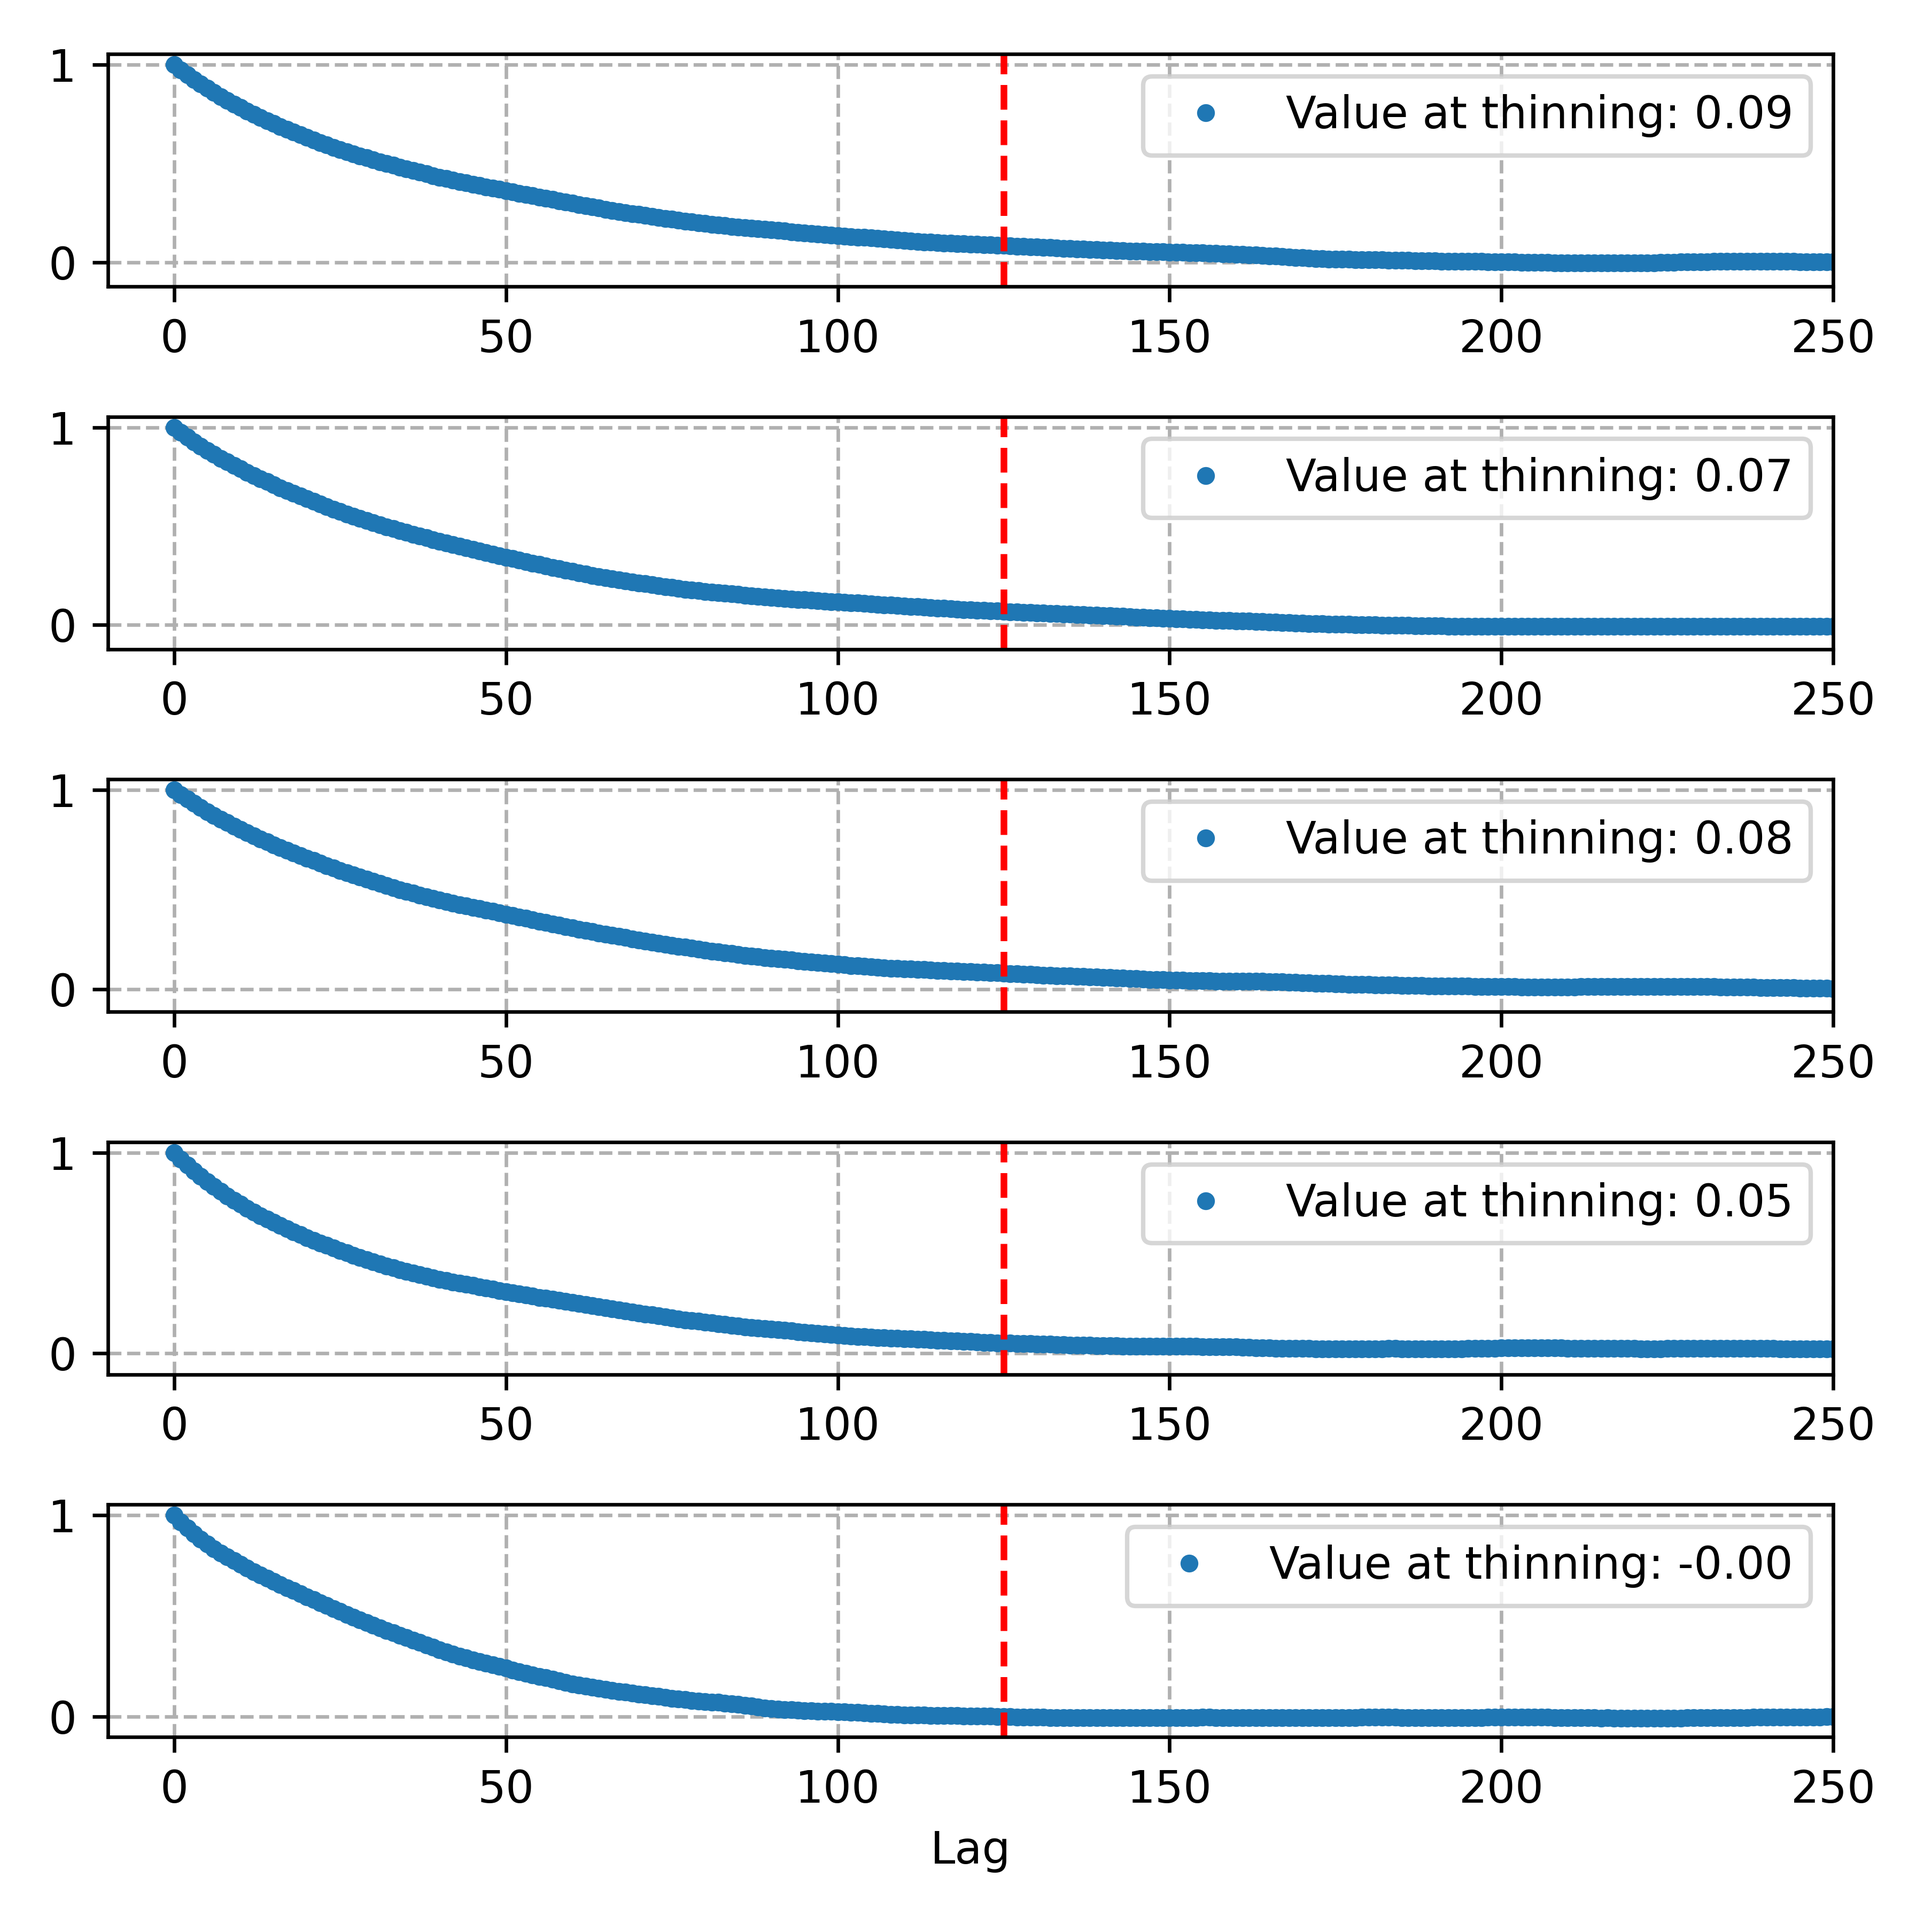
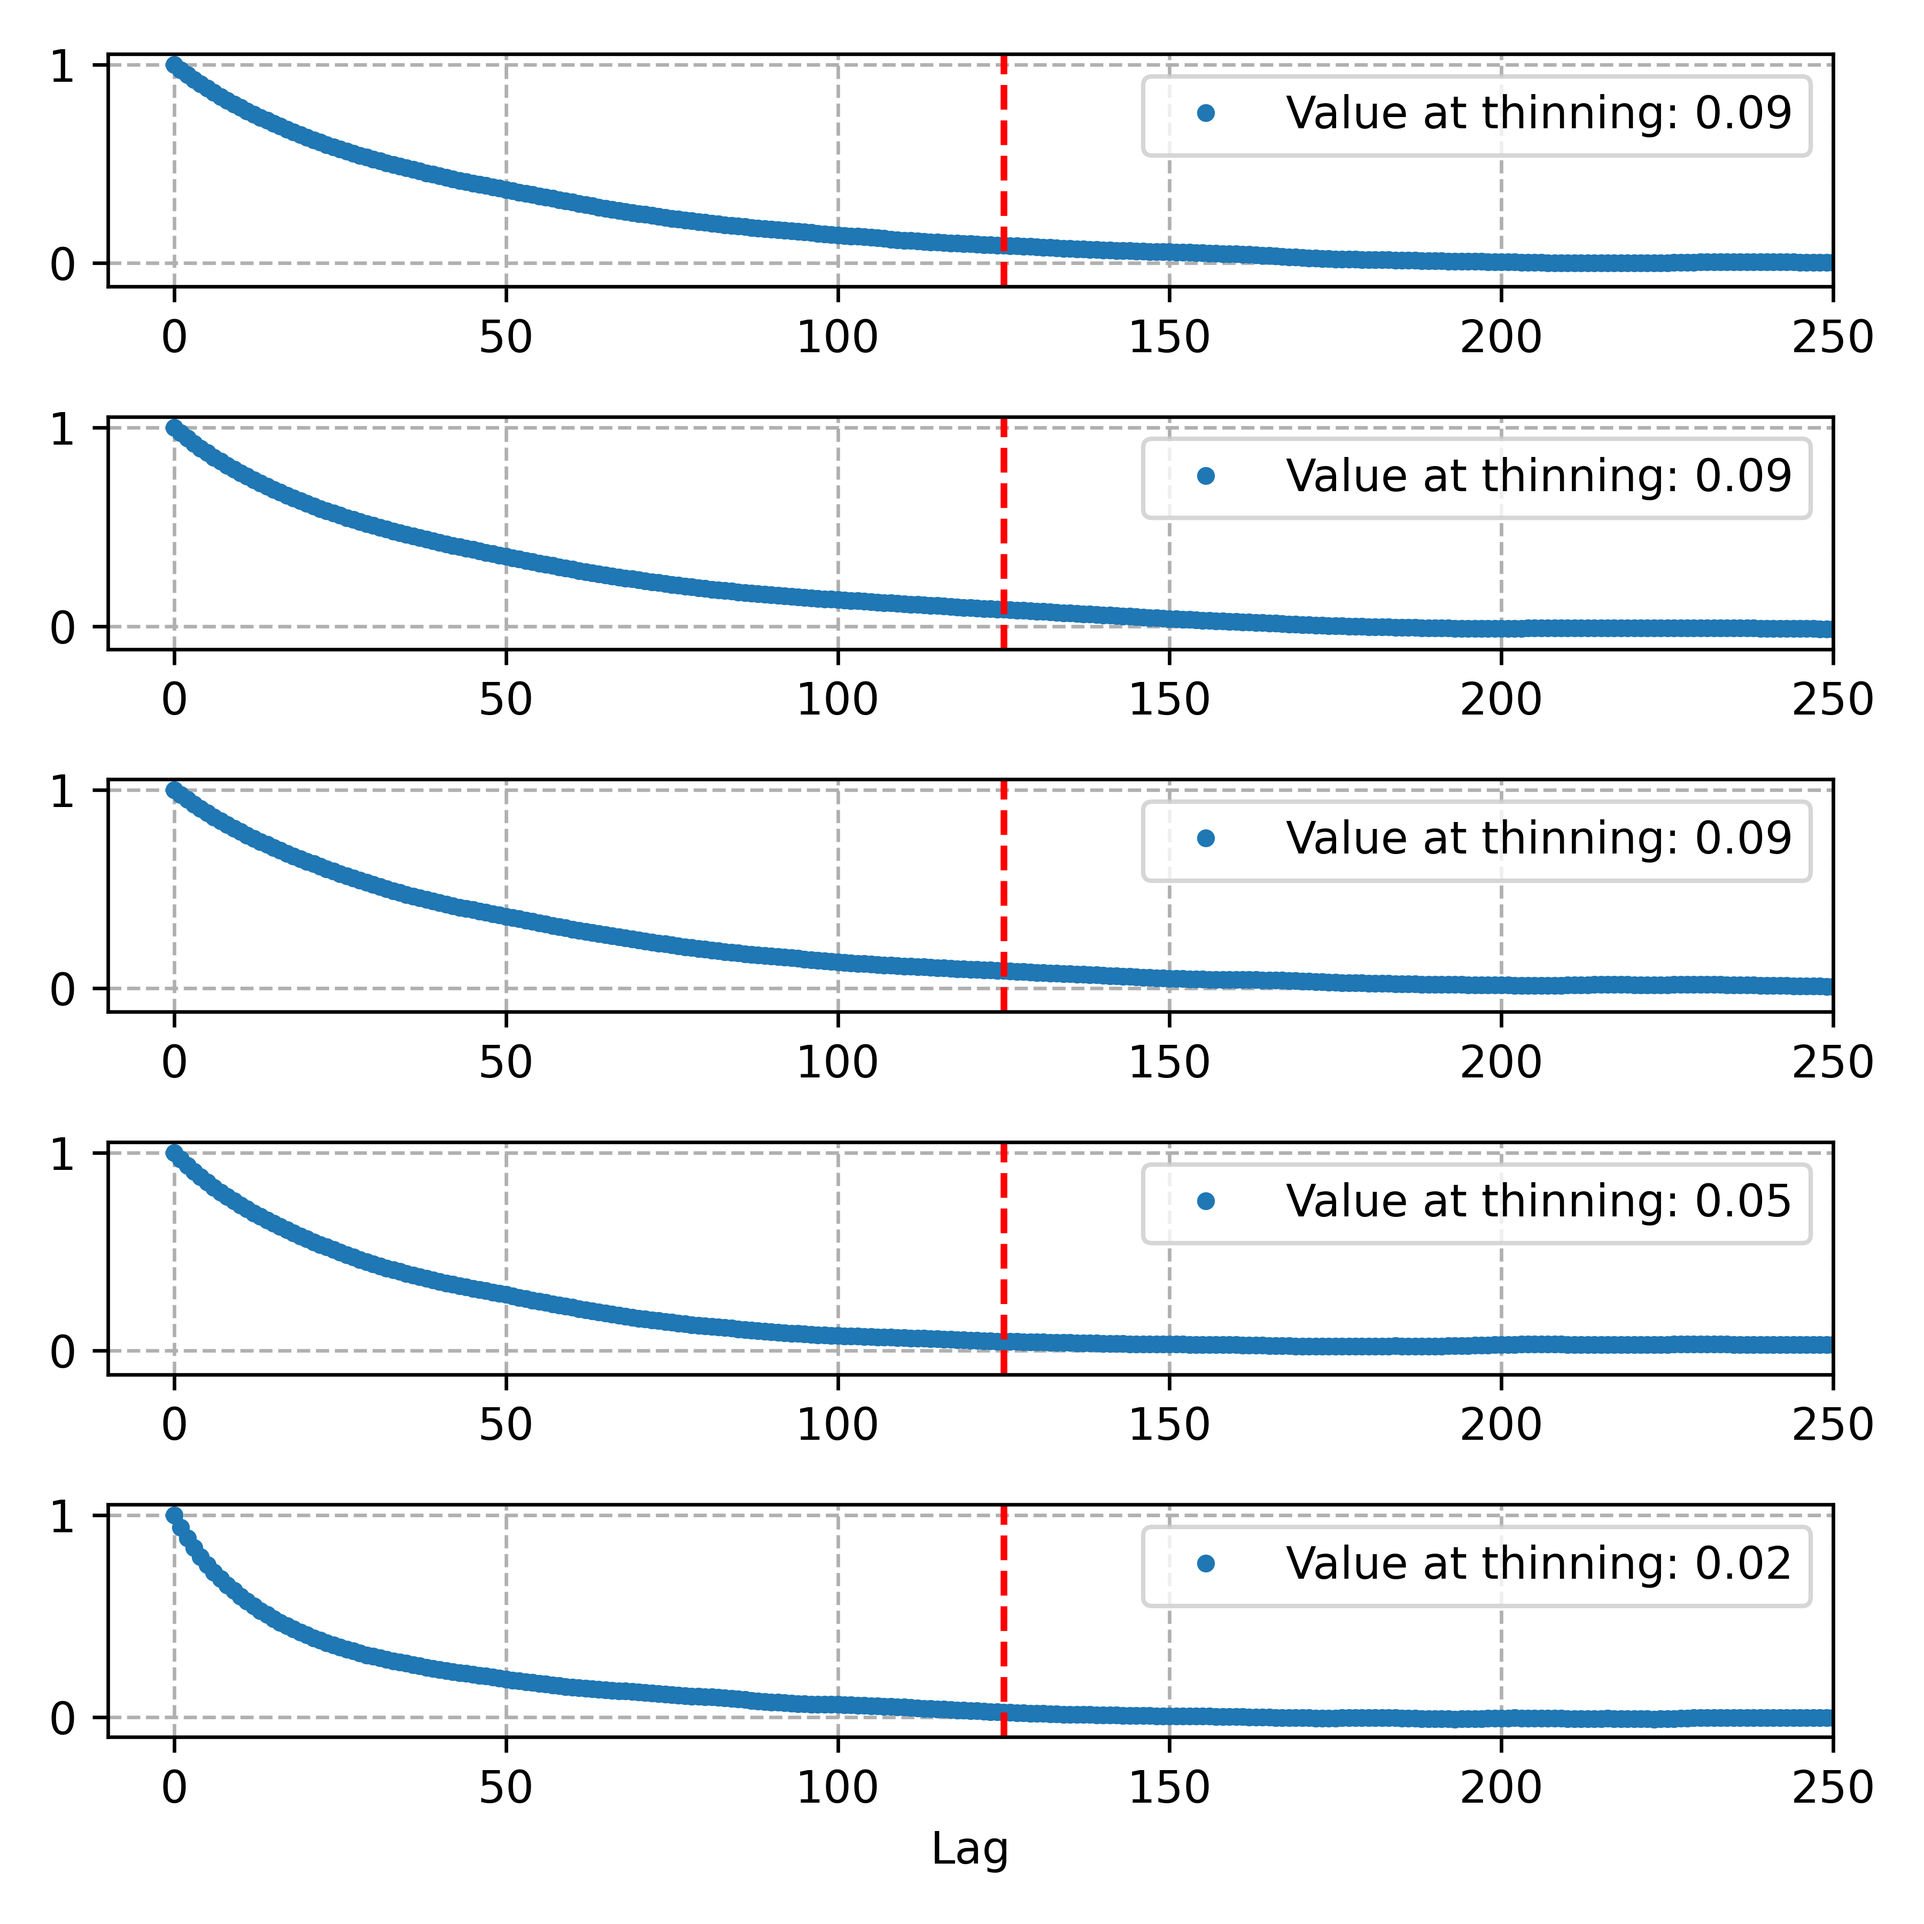
07/04:  wrong order: burnin->autoc->thin

diff --git a/GRB_class_4.py b/GRB_class_4.py
@@ -139,27 +139,29 @@ if __name__ == "__main__":
     samples2 = sample
 
     # trace plots
+    burnin = 100
     fig = plt.figure("Parameters chain 2", figsize = (6,6))
     for i in range(samples2.shape[1]):
         ax = fig.add_subplot(5, 1, i+1)
         ax.plot(samples2[:,i], '.', color = 'C0')
+        ax.axvline(burnin, color='r', linestyle='dashed')
         ax.set_ylabel(name2_l[i])
     ax.set_xlabel("Iteration")
     plt.tight_layout()
     
-    burnin = 100
-    samples2 = samples2[burnin:,:]
+    
+    samples = samples2[burnin:,:]
+    thinning = 15
 
     # look at autocorrelation for theta
     fig = plt.figure("Parameters autocorrelation 2", figsize = (6,6))
-    for i in range(samples2.shape[1]):
+    for i in range(samples.shape[1]):
         ax = fig.add_subplot(5, 1, i+1)
-        ax.plot(autocorrelation(samples2[:,i]), '.', color = 'C0', label = 'Autocorrelation')
-        ax.set_ylabel(name2_l[i])
+        ax.plot(autocorrelation(samples[:,i]), '.', color = 'C0', label = 'Autocorrelation')
+        ax.axvline(thinning, color='r', linestyle='dashed')
     ax.set_xlabel("Iteration")
     plt.tight_layout()
     
-    thinning = 15
     parameters = samples2[::thinning,:]
 
     print(f"2 class: after burn-in and thinning we have {len(parameters[:,0])} samples")
@@ -181,7 +183,7 @@ if __name__ == "__main__":
         else:
             ax = fig1.add_subplot(3, 2, i+1)
         counts_i, bins_i = np.histogram(parameters[:,i], bins = 30, density=True)
-        ax.stairs(counts_i, bins_i, color = 'C0', linewidth = 1.5, baseline=0)
+        ax.stairs(counts_i, bins_i, color = 'C0', linewidth = 1.5, baseline=0)        
         ax.axvline(par_val[i], color = 'green', linestyle='dashed')
         ax.axvline(par_val[i]+d_par_plus[i], color = 'orange', linestyle='dashed')
         ax.axvline(par_val[i]-d_par_minus[i], color = 'orange', linestyle='dashed')
@@ -195,10 +197,8 @@ if __name__ == "__main__":
     from matplotlib.lines import Line2D
     legend_elements = [
         Line2D([0], [0], color='C0', linewidth=1.5, label='Marginalised posterior samples'),
-        #Line2D([0], [0], color='r', linestyle='dashed', label='Prior'),
         Line2D([0], [0], color='green', linestyle='dashed', label='Median value'),
-        Line2D([0], [0], color='orange', linestyle='dashed', label='90% confidence interval'),
-    ]
+        Line2D([0], [0], color='orange', linestyle='dashed', label='90% confidence interval')]
     ax_leg.legend(handles=legend_elements, loc='center')
     ax_leg.axis('off')  # Hide axes, ticks, spines and background
     plt.tight_layout()
@@ -227,7 +227,7 @@ if __name__ == "__main__":
 
     #store the parameters result with a different name to eventually save at end of file
     save2 = np.array([par_val, d_par_plus, d_par_minus]).T
-
+    plt.close('all')
 
     # now all again for model with 3 class
     samples3 = samples3[()]
@@ -237,28 +237,30 @@ if __name__ == "__main__":
     samples3 = sample
 
     # trace plots
+    burnin = 2000
     fig = plt.figure("Parameters chain 3", figsize = (6,6))
     for i in range(samples3.shape[1]):
         ax = fig.add_subplot(8, 1, i+1)
         ax.plot(samples3[:,i], '.', color = 'C0')
+        ax.axvline(burnin, color='r', linestyle='dashed')
         ax.set_ylabel(name3_l[i])
     ax.set_xlabel("Iteration")
     plt.tight_layout()
         
-    burnin = 1000
+    samples = samples3[burnin:,:]
+    thinning = 6
 
     # look at autocorrelation for theta
     fig = plt.figure("Parameters autocorrelation 3", figsize = (6,6))
-    for i in range(samples3.shape[1]):
+    for i in range(samples.shape[1]):
         ax = fig.add_subplot(8, 1, i+1)
-        ax.plot(autocorrelation(samples3[:,i]), '.', color = 'C0', label = 'Autocorrelation')
-        ax.set_ylabel(name3_l[i])
+        ax.plot(autocorrelation(samples[:,i]), '.-', color = 'C0', label = 'Autocorrelation')
+        ax.axvline(thinning, color='r', linestyle='dashed')
+        ax.set_xlim(-1, 20)
     ax.set_xlabel("Iteration")
     plt.tight_layout()
-    
-    thinning = 15
-    sample = samples3[burnin:,:]
-    parameters = sample[::thinning,:]
+
+    parameters = samples[::thinning,:]
     print(f"3 class: after burn-in and thinning we have {len(parameters[:,0])} samples")
 
 
@@ -334,15 +336,16 @@ if __name__ == "__main__":
     ax.plot(xx, pdf3*scale, 'r', label = "Model with 3 classes", zorder = 2)
     ax.set_xlabel("$\\log(T_{90})$")
     ax.set_ylabel("Counts")
+    ax.set_ylim([0,170])
     ax.grid(linestyle = 'dashed')
     ax.set_axisbelow(True)
-    plt.legend()
+    plt.legend(loc='upper right')
 
 
     # save the results
     
-    #plt.show()
-    #exit()
+    plt.show()
+    exit()
 
     header = "par_val d_par_plus d_par_minus"
     # from the 2 class analysis

diff --git a/GRB_class_1.py b/GRB_class_1.py
@@ -327,6 +327,8 @@ if __name__ == "__main__":
     ax.set_axisbelow(True)
     plt.legend()
     
+    # make the burn-in
+    samples = samples[burnin:,:]
     
     # look at autocorrelation for theta
     fig3 = plt.figure("Parameters autocorrelation", figsize = (6,6))
@@ -351,11 +353,9 @@ if __name__ == "__main__":
         ax.set_axisbelow(True)
     ax.set_xlabel("Lag")
     plt.tight_layout()
-
     
     # after burn-in and autocorrelation we plot the histograms of the parameters
-    parameters = samples[burnin:,:]
-    parameters = parameters[::thinning,:]
+    parameters = samples[::thinning,:]
 
     print(f"After burn-in and thinning we have {len(parameters[:,0])} samples")
     
@@ -431,8 +431,8 @@ if __name__ == "__main__":
     
     # end of first point: show, save or close all the open figures
 
-    plt.show()
-    exit()
+    #plt.show()
+    #exit()
 
     fig1.savefig(main_dir+"\\Results\\1a\\Parameters_chain.png", dpi = 600)
     fig2.savefig(main_dir+"\\Results\\1a\\Parameters_chain_zoom.png", dpi = 600)
